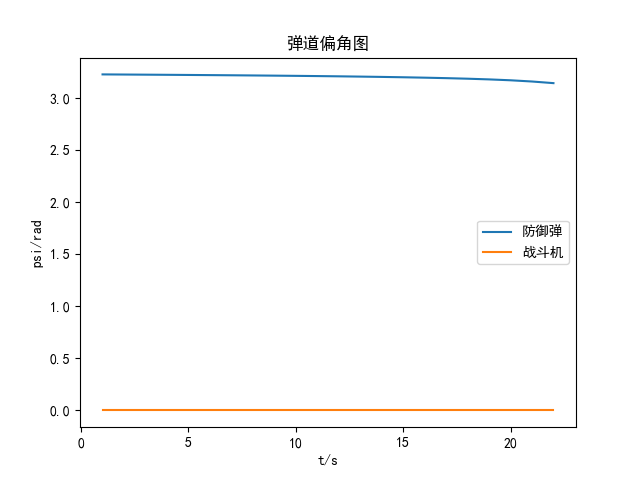
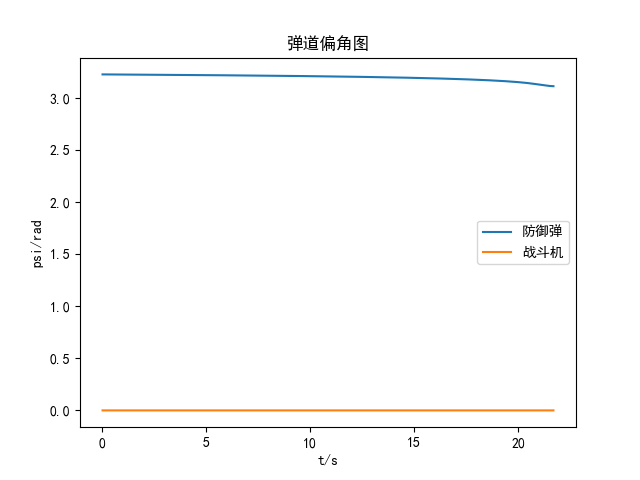
1

diff --git a/no-policy.py b/no-policy.py
@@ -1,11 +1,13 @@
-from MyEnvs import FighterEnv_2
+from MyEnvs import FighterEnv_nopolicy
 import numpy as np
 import matplotlib.pyplot as plt
 
 plt.rcParams['font.sans-serif'] = ['SimHei']  # 指定默认字体
 plt.rcParams['axes.unicode_minus'] = False  # 解决保存图像时负号'-'显示为方块的问题
 
-myenv = FighterEnv_2(True)
+myenv = FighterEnv_nopolicy(True , dt=0.01 ,Dt = 0.01)
+
+
 
 
 

diff --git a/MyEnvs.py b/MyEnvs.py
@@ -625,7 +625,7 @@ class FighterEnv_2D(FighterEnv):
 
             
 
-class FighterEnv_2(FighterEnv_2D):
+class FighterEnv_nopolicy(FighterEnv):
 
     def start_simulate(self):
         while self.FD.r > R_DAM and self.FT.r > 0: # 不进行突防仿真
